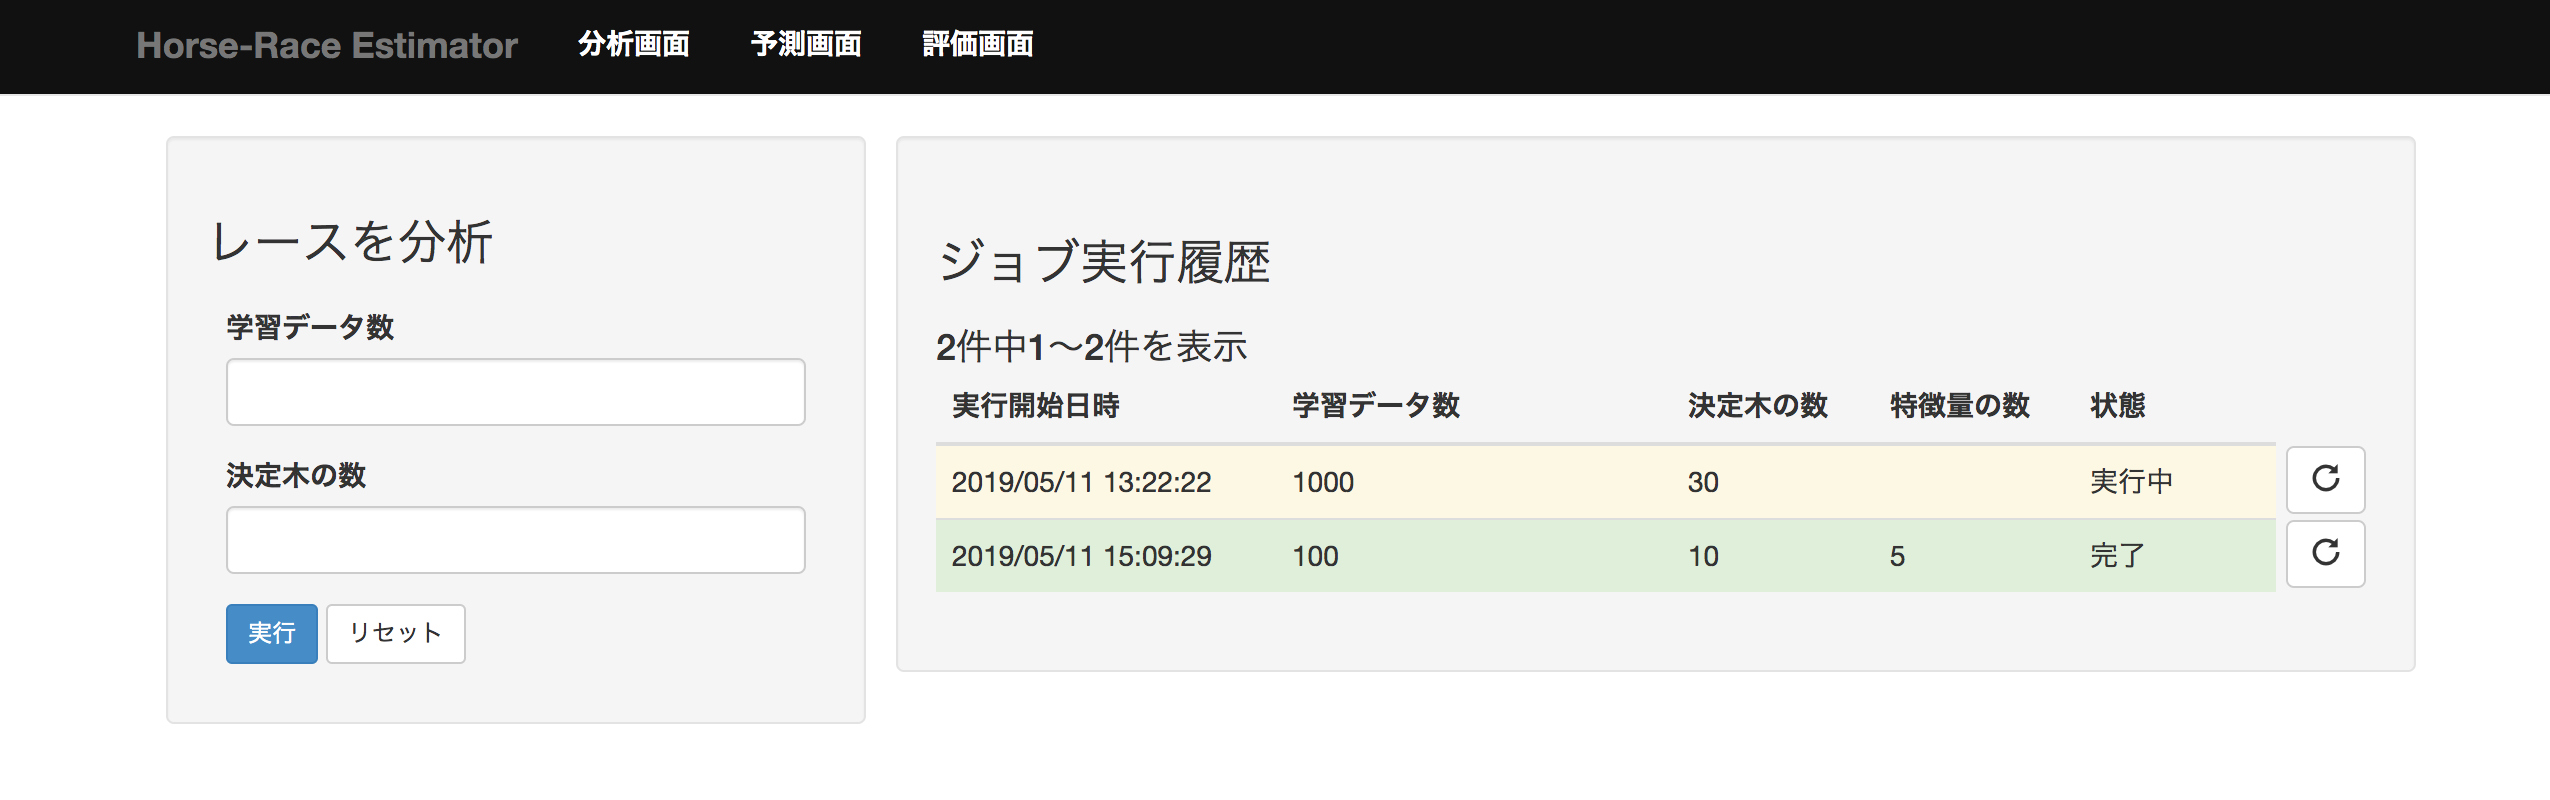
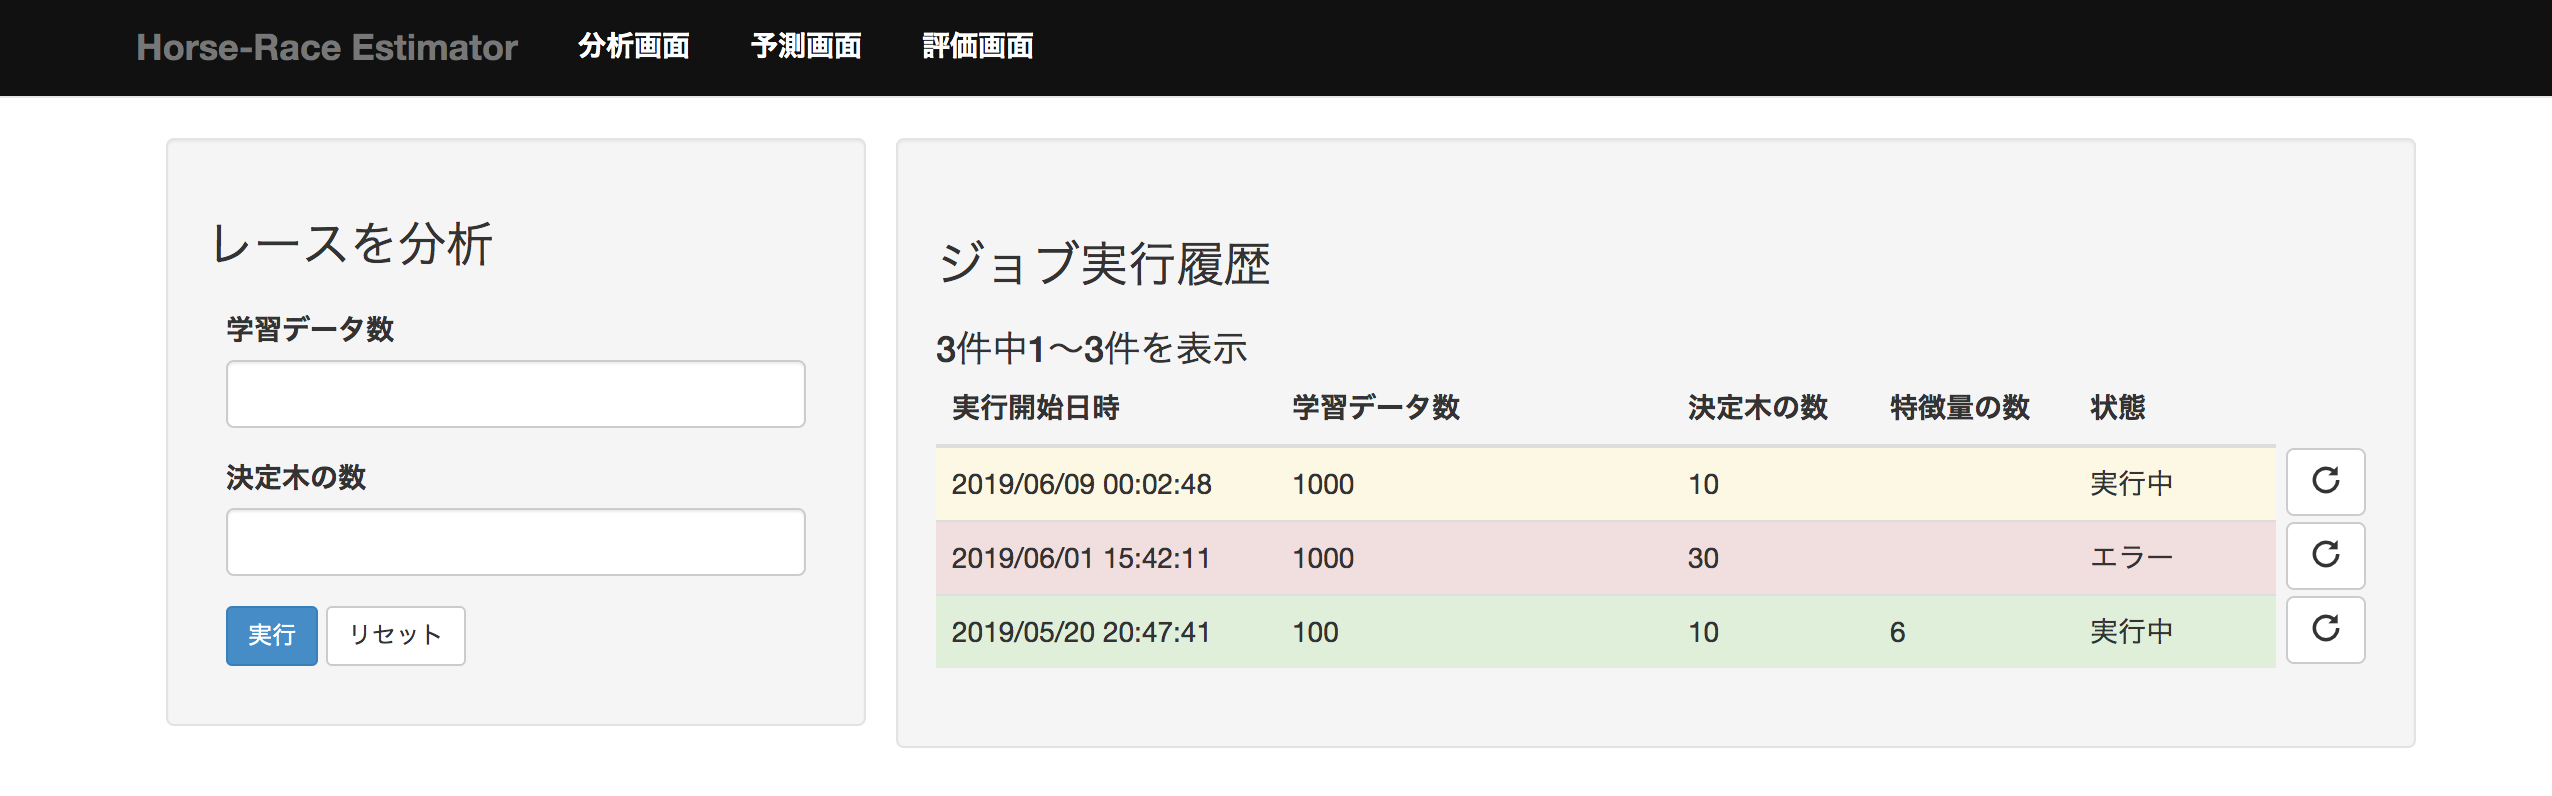
Alterf error status (#196)
* update view images

* update service index

* update external spec

* update internal spec

* update CHANGELOG.md

diff --git a/horse-race_estimator/alterf/external.rst b/horse-race_estimator/alterf/external.rst
@@ -13,11 +13,11 @@
 
 本システムでは以下のリソースを扱う
 
-- :ref:`alt-ext-resource-analysis`
-- :ref:`alt-ext-resource-prediction`
-- :ref:`alt-ext-resource-evaluation`
+- :ref:`alt-ext-res-analysis`
+- :ref:`alt-ext-res-prediction`
+- :ref:`alt-ext-res-evaluation`
 
-.. _alt-ext-resource-analysis:
+.. _alt-ext-res-analysis:
 
 分析ジョブ
 ^^^^^^^^^^
@@ -25,20 +25,21 @@
 分析の実行単位を表す．分析を1度実行すると1ジョブリソースが生成される
 
 .. csv-table::
-   :header: "属性名", "型", "意味", "備考"
-   :widths: 20, 10, 30, 40
+   :header: 属性名,型,意味,備考
+   :widths: 20,10,30,40
 
-   "実行開始日時", "文字列(string)", "分析を開始した日時", "- 年/月/日 時:分:秒"
-   "学習データ数", "自然数(integer)", "分析に利用したデータ数", "- 半角数字"
-   "決定木の数", "自然数(integer)", "生成するランダムフォレストの木の数", "- 半角数字"
-   "特徴量の数", "自然数(integer)", "分析に利用する特徴量の数", "- 半角数字
+   実行開始日時,string,分析を開始した日時,- 年/月/日 時:分:秒 の形式
+   学習データ数,integer,分析に利用したデータ数,- 1以上
+   決定木の数,integer,生成するランダムフォレストの木の数,- 1以上
+   特徴量の数,integer,分析に利用する特徴量の数,"- 半角数字
    - システム内部で自動的に決定される"
-   "状態", "文字列(string)", "ジョブの状態", "- 以下のいずれか
+   状態,string,ジョブの状態,"- 以下のいずれか
 
      - 実行中
-     - 完了"
+     - 完了
+     - エラー"
 
-.. _alt-ext-resource-prediction:
+.. _alt-ext-res-prediction:
 
 予測ジョブ
 ^^^^^^^^^^
@@ -46,19 +47,20 @@
 予測の実行単位を表す．予測を1度実行すると1ジョブリソースが生成される
 
 .. csv-table::
-   :header: "属性名", "型", "意味", "備考"
-   :widths: 20, 10, 30, 40
+   :header: 属性名,型,意味,備考
+   :widths: 20,10,30,40
 
-   "実行開始日時", "文字列(string)", "予測を開始した日時", "- 年/月/日 時:分:秒"
-   "モデル", "文字列(string)", "入力されたモデルのファイル名",
-   "テストデータ", "文字列(string)", "予測するレースデータのファイル名，またはURL",
-   "状態", "文字列(string)", "ジョブの状態", "- 以下のいずれか
+   実行開始日時,string,予測を開始した日時,- 年/月/日 時:分:秒 の形式
+   モデル,string,入力されたモデルのファイル名,
+   テストデータ,string,予測するレースデータのファイル名，またはURL,
+   状態,string,ジョブの状態,"- 以下のいずれか
 
      - 実行中
-     - 完了"
-   "結果", "自然数の配列(array[integer])", "1着と予測された馬番の配列", "- 空配列，または半角数字の要素からなる"
+     - 完了
+     - エラー"
+   結果,array[integer],1着と予測された馬番の配列,- 空配列，または1以上の数値の要素
 
-.. _alt-ext-resource-evaluation:
+.. _alt-ext-res-evaluation:
 
 評価ジョブ
 ^^^^^^^^^^
@@ -66,15 +68,16 @@
 評価の実行単位を表す．評価を1度実行すると1ジョブリソースが生成される
 
 .. csv-table::
-   :header: "属性名", "型", "意味", "備考"
-   :widths: 20, 10,30, 40
+   :header: 属性名,型,意味,備考
+   :widths: 20,10,30,40
 
-   "実行開始日時", "文字列(string)", "予測を開始した日時", "- 年/月/日 時:分:秒"
-   "モデル", "文字列(string)", "入力されたモデルのファイル名",
-   "状態", "文字列(string)", "ジョブの状態", "- 以下のいずれか
+   実行開始日時,string,予測を開始した日時,- 年/月/日 時:分:秒 の形式
+   モデル,string,入力されたモデルのファイル名,
+   状態,string,ジョブの状態,"- 以下のいずれか
 
      - 実行中
-     - 完了"
+     - 完了
+     - エラー"
 
 .. _alt-ext-ui:
 
@@ -126,7 +129,7 @@
 
   - 25ジョブごとにページングされている
   - 実行開始日時の降順でソートされている
-  - 実行中のジョブは黄色，完了したジョブの行は緑色で表示される
+  - 実行中のジョブは黄色，完了したジョブの行は緑色，エラーになったジョブは赤色で表示される
   - ジョブ情報の右側のボタンを押下すると，そのジョブと同じパラメーターで分析を実行する
 
 .. _alt-ext-ui-prediction:
@@ -159,6 +162,7 @@
 
       - ポインタを乗せると馬番が全て表示される
 
+  - エラーになったジョブの行は赤色で表示され，結果列には赤色で「×」マークが表示される
   - テストデータがサイトのURLの場合はクリックすると別タブにそのページが表示される
 
 .. _alt-ext-ui-evaluation:
@@ -189,4 +193,4 @@
 
   - 25ジョブごとにページングされている
   - 実行開始日時の降順でソートされている
-  - 実行中のジョブは黄色，完了したジョブの行は緑色で表示される
+  - 実行中のジョブは黄色，完了したジョブの行は緑色，エラーになったジョブは赤色で表示される

diff --git a/horse-race_estimator/alterf/internal.rst b/horse-race_estimator/alterf/internal.rst
@@ -203,16 +203,16 @@ analysesテーブル
 分析ジョブ情報を登録するanalysesテーブルを定義する
 
 .. csv-table::
-   :header: "カラム", "型", "内容", "PRIMARY KEY", "NOT NULL"
-   :widths: 10, 10, 20, 20, 10
+   :header: カラム,型,内容,PRIMARY KEY,NOT NULL
+   :widths: 10,10,20,20,10
 
-   "id", "INTEGER", "内部ID", "○", "○"
-   "num_data", "INTEGER", "学習データ数",, "○"
-   "num_tree", "INTEGER", "決定木の数",,
-   "num_feature", "INTEGER", "特徴量の数",, "○"
-   "state", "STRING", "分析処理の状態",,
-   "created_at", "DATETIME", "分析ジョブ情報の作成日時", "", "○"
-   "updated_at", "DATETIME", "分析ジョブ情報の更新日時", "", "○"
+   id,INTEGER,内部ID,○,○
+   num_data,INTEGER,学習データ数,,○
+   num_tree,INTEGER,決定木の数,,
+   num_feature,INTEGER,特徴量の数,,○
+   state,STRING,分析処理の状態,,
+   created_at,DATETIME,分析ジョブ情報の作成日時,,○
+   updated_at,DATETIME,分析ジョブ情報の更新日時,,○
 
 .. _alt-int-sch-predictions:
 
@@ -222,15 +222,15 @@ predictionsテーブル
 予測ジョブ情報を登録するpredictionsテーブルを定義する
 
 .. csv-table::
-   :header: "カラム", "型", "内容", "PRIMARY KEY", "NOT NULL"
-   :widths: 10, 10, 20, 20, 10
+   :header: カラム,型,内容,PRIMARY KEY,NOT NULL
+   :widths: 10,10,20,20,10
 
-   "id", "INTEGER", "内部ID", "○", "○"
-   "model", "STRING", "モデルファイル名",,
-   "test_data", "STRING", "テストデータのファイル名，またはURL",,
-   "state", "STRING", "予測処理の状態",,
-   "created_at", "DATETIME", "予測ジョブ情報の作成日時", "", "○"
-   "updated_at", "DATETIME", "予測ジョブ情報の更新日時", "", "○"
+   id,INTEGER,内部ID,○,○
+   model,STRING,モデルファイル名,,
+   test_data,STRING,テストデータのファイル名，またはURL,,
+   state,STRING,予測処理の状態,,
+   created_at,DATETIME,予測ジョブ情報の作成日時,,○
+   updated_at,DATETIME,予測ジョブ情報の更新日時,,○
 
 .. _alt-int-sch-prediction_results:
 
@@ -240,14 +240,14 @@ prediction_resultsテーブル
 予測結果情報を登録するprediction_resultsテーブルを定義する
 
 .. csv-table::
-   :header: "カラム", "型", "内容", "PRIMARY KEY", "NOT NULL"
-   :widths: 10, 10, 20, 20, 10
+   :header: カラム,型,内容,PRIMARY KEY,NOT NULL
+   :widths: 10,10,20,20,10
 
-   "id", "INTEGER", "内部ID", "○", "○"
-   "prediction_id", "INTEGER", "predictionsテーブルの外部ID", "", "○"
-   "number", "INTEGER", "1着と予測されたエントリーの馬番", "", "○"
-   "created_at", "DATETIME", "予測結果情報の作成日時", "", "○"
-   "updated_at", "DATETIME", "予測結果情報の更新日時", "", "○"
+   id,INTEGER,内部ID,○,○
+   prediction_id,INTEGER,predictionsテーブルの外部ID,,○
+   number,INTEGER,1着と予測されたエントリーの馬番,,○
+   created_at,DATETIME,予測結果情報の作成日時,,○
+   updated_at,DATETIME,予測結果情報の更新日時,,○
 
 .. _alt-int-sch-evaluations:
 
@@ -257,11 +257,11 @@ evaluationsテーブル
 評価ジョブ情報を登録するevaluationsテーブルを定義する
 
 .. csv-table::
-   :header: "カラム", "型", "内容", "PRIMARY KEY", "NOT NULL"
-   :widths: 10, 10, 20, 20, 10
+   :header: カラム,型,内容,PRIMARY KEY,NOT NULL
+   :widths: 10,10,20,20,10
 
-   "id", "INTEGER", "内部ID", "○", "○"
-   "model", "STRING", "モデルファイル名",, "○"
-   "state", "STRING", "評価処理の状態",,
-   "created_at", "DATETIME", "評価ジョブ情報の作成日時", "", "○"
-   "updated_at", "DATETIME", "評価ジョブ情報の更新日時", "", "○"
+   id,INTEGER,内部ID,○,○
+   model,STRING,モデルファイル名,,○
+   state,STRING,評価処理の状態,,
+   created_at,DATETIME,評価ジョブ情報の作成日時,,○
+   updated_at,DATETIME,評価ジョブ情報の更新日時,,○

diff --git a/horse-race_estimator/index.rst b/horse-race_estimator/index.rst
@@ -14,14 +14,22 @@ Horse-Race Estimator: 競馬予測システム
    boundary Webブラウザ
    entity レース情報
    entity 分析ジョブ
+   entity 予測ジョブ
+   entity 評価ジョブ
 
    利用者 -- Webブラウザ
 
    rectangle Alterf {
      control 分析ジョブコントローラー
+     control 予測ジョブコントローラー
+     control 評価ジョブコントローラー
      Webブラウザ -- 分析ジョブコントローラー
+     Webブラウザ -- 予測ジョブコントローラー
+     Webブラウザ -- 評価ジョブコントローラー
      分析ジョブコントローラー -- レース情報
      分析ジョブコントローラー -- 分析ジョブ
+     予測ジョブコントローラー -- 予測ジョブ
+     評価ジョブコントローラー -- 評価ジョブ
    }
 
    rectangle Denebola {
@@ -29,7 +37,7 @@ Horse-Race Estimator: 競馬予測システム
      レース情報収集スクリプト -- レース情報
    }
 
-- 利用者はWebブラウザからレース情報の分析を実行する
+- 利用者はWebブラウザからレースの分析，予測，評価を実行する
 - レース情報は定期的にスクリプトによって収集される
 
 モジュール一覧

diff --git a/CHANGELOG.md b/CHANGELOG.md
@@ -1,3 +1,6 @@
+# 2019/06/09
+- [Alterf] update version to 4.2.0
+
 # 2019/06/08
 - [Regulus] update version to 4.2.0
 
